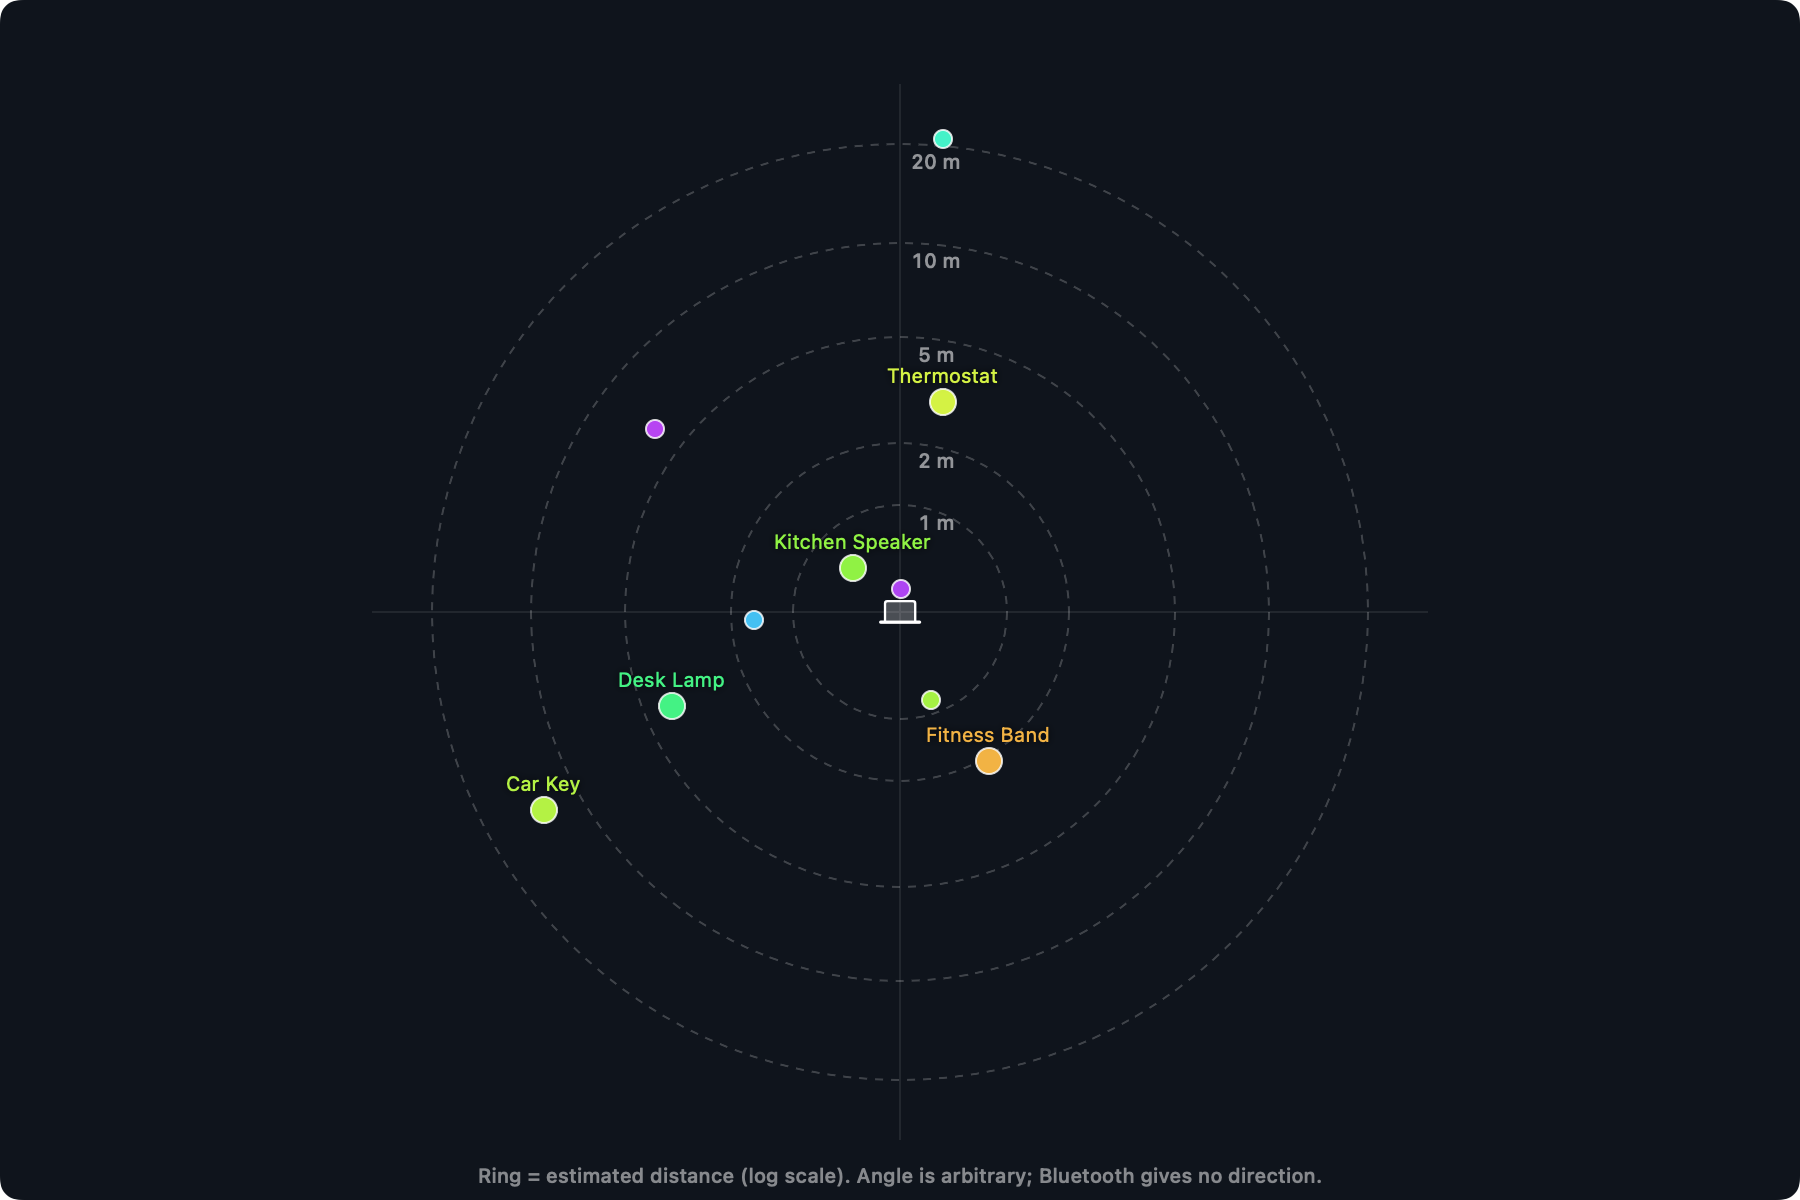
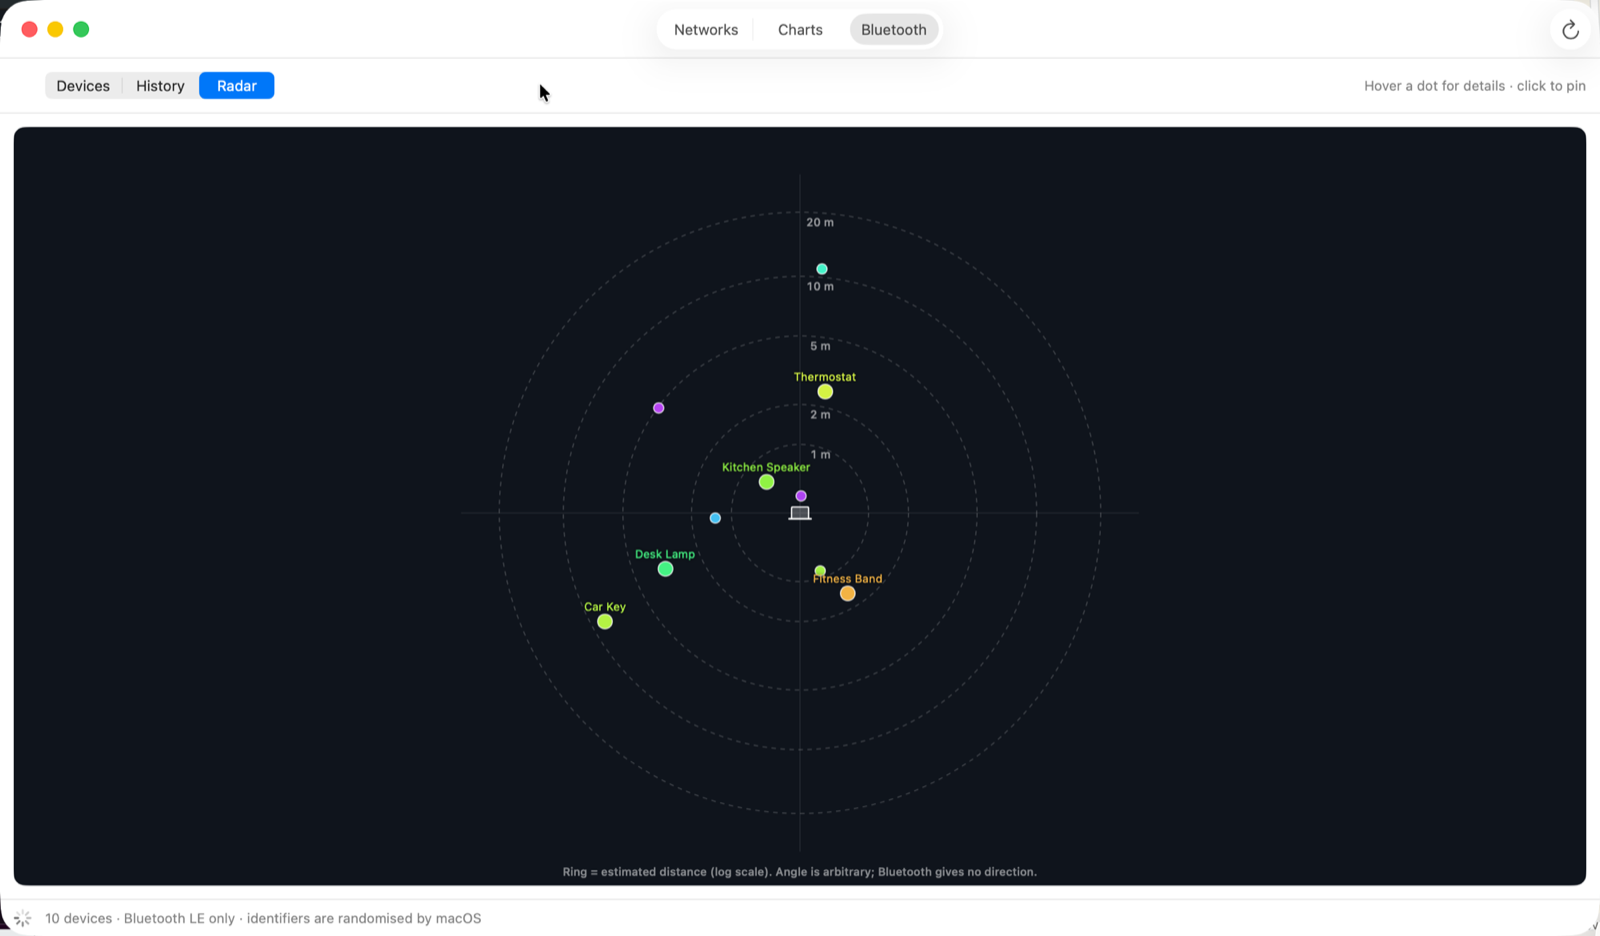
README: real window screenshots from demo mode

diff --git a/README.md b/README.md
@@ -7,10 +7,10 @@
 Open-source macOS app for looking at the Wi-Fi and Bluetooth radio
 environment around your Mac. MIT licensed.
 
-![Spectrum view: one curve per network over the channels it occupies, with DFS shading and the recommended block bracketed](docs/screenshots/spectrum.png)
+![Spectrum view: one curve per network over the channels it occupies, DFS channels shaded, the router's current block bracketed and a "Keep Auto" verdict](docs/screenshots/spectrum.png)
 
 <p align="center">
-  <img src="docs/screenshots/history.png" alt="RSSI history chart" width="49%">
+  <img src="docs/screenshots/networks.png" alt="Networks table sorted by signal" width="49%">
   <img src="docs/screenshots/radar.png" alt="Bluetooth proximity radar" width="49%">
 </p>
 
